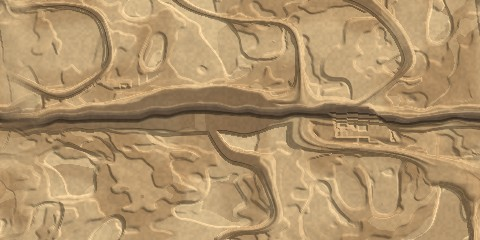
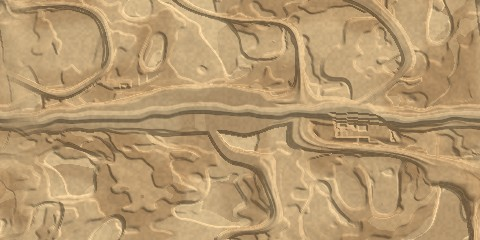
GPU savings (1k shadow map, sand maths only on the sand), Nahara's sand canyon floor, the ship's shots restyled
- Shadow map 1024 (1536): no visible difference on Khepri or Vesper; the phone logs showed the game GPU-bound.
- Sand ripples and sparkle computed only where sand lies: pixel-identical against the previous build.
- Nahara's chasm floor is shaded sand with wind ripples under the haze; its globe re-baked.
- The ship's shots: a thin deep-blue rim on Vesper (no black border), a halo per world's ground, a smoother shape.

diff --git a/src/render/scene.ts b/src/render/scene.ts
@@ -215,7 +215,9 @@ const SUN_ELEVATION = THREE.MathUtils.degToRad(38);
 export const SUN = new THREE.Vector3(SUN_DIRECTION.x, 0, -SUN_DIRECTION.s).normalize().multiplyScalar(Math.cos(SUN_ELEVATION)).setY(Math.sin(SUN_ELEVATION));
 /** Height band that can receive (terrain floor) or cast (scenery, fortress superstructure) shadows. */
 const SHADOW_SLAB = { bottom: TERRAIN_MIN_HEIGHT - .2, top: 3.7 } as const;
-const SHADOW_MAP_SIZE = 1536, SHADOW_LIGHT_DISTANCE = 60;
+// (1024 since 19 November, 1536 before: phone logs showed the game GPU-bound, and the depth fill falls by more than half;
+// user, "lets try the 1k shadow, that would improve the whole game right".)
+const SHADOW_MAP_SIZE = 1024, SHADOW_LIGHT_DISTANCE = 60;
 /**
  * The authored Scrapper is ~1.0 unit wide; the user asked for the hero to fly at the planned top-tier size
  * (1.7 units, docs/04 §9). Render-only: the collision radius is owned by the simulation.
@@ -657,7 +659,7 @@ export function createRenderer(canvas: HTMLCanvasElement): GameRenderer {
    * flash), so the switch happens under the flash and never mid-sector.
    */
   /** Bright ground (Vesper's snow) washes out the pale hero bolts: they gain a dark outline and a deeper cyan there. */
-  let brightGround = false;
+  let brightGround = false, coolGround = false;
   /** Lights, grade and fog of a look: cheap, no material changes (the playground tunes these live). */
   const applyLight = (next: PlanetId, look: PlanetLook) => {
     scene.background = new THREE.Color(look.background);
@@ -686,6 +688,7 @@ export function createRenderer(canvas: HTMLCanvasElement): GameRenderer {
   };
   const applyLook = (next: PlanetId) => {
     brightGround = next === 'vesper';
+    coolGround = next === 'vesper' || next === 'luna' || next === 'nacre' || next === 'umbra';
     planet = next;
     const look = LOOKS[next];
     applyLight(next, look);
@@ -1367,14 +1370,32 @@ export function createRenderer(canvas: HTMLCanvasElement): GameRenderer {
 
   // Shots never hide behind ground: no depth test, and `transparent` puts them in the last (transparent) list so
   // they draw after roads and other blended ground passes, which would otherwise paint over them.
-  const friendlyMaterial = new THREE.MeshBasicMaterial({ color: 0xbcfff8, depthTest: false, depthWrite: false, transparent: true });
+  const friendlyMaterial = new THREE.MeshBasicMaterial({ color: 0xbcfff8, depthTest: false, depthWrite: false, transparent: true, opacity: .88 });
   // Hostile shot colours per world (a core and a pale centre that the bloom carries): shot-colors.ts `hostileHues`.
   const hostileMaterial = new THREE.MeshBasicMaterial({ color: 0xff8869, depthTest: false, depthWrite: false, transparent: true });
   const hostileCoreMaterial = new THREE.MeshBasicMaterial({ color: 0xffe7c4, depthTest: false, depthWrite: false, transparent: true });
   const projectileGeometry = new THREE.SphereGeometry(1, 6, 4);
-  const friendly = new THREE.InstancedMesh(projectileGeometry, friendlyMaterial, 1024);
-  const friendlyOutlineMaterial = new THREE.MeshBasicMaterial({ color: 0x041624, depthTest: false, depthWrite: false, transparent: true, toneMapped: false });
-  const friendlyOutline = new THREE.InstancedMesh(projectileGeometry, friendlyOutlineMaterial, 1024);
+  // (The ship's own shots on a smoother shape, 16 × 8: on the 6-sided one their thin rim showed every facet as a jagged edge,
+  // 19 November, "the borders now look pixelated".)
+  const boltGeometry = new THREE.SphereGeometry(1, 16, 8);
+  const friendly = new THREE.InstancedMesh(boltGeometry, friendlyMaterial, 1024);
+  // A soft halo round each of the ship's own shots (19 November: "it could use some subtle glow (less than interceptor perk)
+  // and some transparency"): the same instances, larger and faint, added over the scene; one more draw, no extra pass.
+  const friendlyGlowMaterial = new THREE.MeshBasicMaterial({ color: 0x1fc8ff, depthTest: false, depthWrite: false, transparent: true, opacity: .32, blending: THREE.AdditiveBlending, toneMapped: false });
+  const friendlyGlow = new THREE.InstancedMesh(boltGeometry, friendlyGlowMaterial, 1024);
+  friendlyGlow.instanceMatrix.setUsage(THREE.DynamicDrawUsage); friendlyGlow.frustumCulled = false; friendlyGlow.renderOrder = 8;
+  friendlyGlow.count = 0; scene.add(friendlyGlow);
+  // (Over warm ground, a halo in the shot's own pale cyan, blended rather than added: added cyan over rust read lilac.)
+  const friendlyWarmGlowMaterial = new THREE.MeshBasicMaterial({ color: 0xbcfff8, depthTest: false, depthWrite: false, transparent: true, opacity: .22, toneMapped: false });
+  const friendlyWarmGlow = new THREE.InstancedMesh(boltGeometry, friendlyWarmGlowMaterial, 1024);
+  friendlyWarmGlow.instanceMatrix = friendlyGlow.instanceMatrix; friendlyWarmGlow.frustumCulled = false; friendlyWarmGlow.renderOrder = 8;
+  friendlyWarmGlow.count = 0; scene.add(friendlyWarmGlow);
+  // (Its border finer and half see-through since 19 November, user: "the projectiles of the hero ship look cheap with the
+  // black border ... make the black border finer"; still there on Vesper's snow, where it keeps them readable.)
+  // (A deep blue rim rather than a black one, 19 November: "over the white snow its not so good visible" without it, but black
+  // read as cheap; saturated blue still stands off the snow and reads as the shot's own energy.)
+  const friendlyOutlineMaterial = new THREE.MeshBasicMaterial({ color: 0x08357a, depthTest: false, depthWrite: false, transparent: true, opacity: 1, toneMapped: false });
+  const friendlyOutline = new THREE.InstancedMesh(boltGeometry, friendlyOutlineMaterial, 1024);
   friendlyOutline.instanceMatrix.setUsage(THREE.DynamicDrawUsage); friendlyOutline.frustumCulled = false; friendlyOutline.renderOrder = 9;
   friendlyOutline.count = 0; scene.add(friendlyOutline);
   /** A Fracture Wave's wall shots in flight this frame (linked by a band, docs/39). */
@@ -2243,8 +2264,11 @@ export function createRenderer(canvas: HTMLCanvasElement): GameRenderer {
           transform.rotation.set(0, Math.atan2(at.vx, -at.vs), 0); transform.scale.setScalar(1.25); transform.updateMatrix();
           if (missileCount < missiles.instanceMatrix.count) missiles.setMatrixAt(missileCount++, transform.matrix);
         } else if (sim.friendly) {
+          if (friendlyCount < friendly.instanceMatrix.count) {
+            transform.scale.set(.1 * heat.grow, .05, .36 * heat.grow); transform.updateMatrix(); friendlyGlow.setMatrixAt(friendlyCount, transform.matrix);
+          }
           if (brightGround && friendlyCount < friendly.instanceMatrix.count) {
-            transform.scale.set(.1 * heat.grow, .05, .36 * heat.grow); transform.updateMatrix(); friendlyOutline.setMatrixAt(friendlyCount, transform.matrix);
+            transform.scale.set(.09 * heat.grow, .05, .345 * heat.grow); transform.updateMatrix(); friendlyOutline.setMatrixAt(friendlyCount, transform.matrix);
           }
           transform.scale.set(.045 * heat.grow, .045, .27 * heat.grow); transform.updateMatrix();
           if (friendlyCount < friendly.instanceMatrix.count) friendly.setMatrixAt(friendlyCount++, transform.matrix);
@@ -2273,9 +2297,16 @@ export function createRenderer(canvas: HTMLCanvasElement): GameRenderer {
       }
       if (missiles) liveInstances(missiles, missileCount);
       liveInstances(friendly, friendlyCount); liveInstances(hostile, hostileCount); liveInstances(hostileCores, hostileCount);
-      liveInstances(friendlyOutline, brightGround ? friendlyCount : 0);
+      liveInstances(friendlyOutline, brightGround ? friendlyCount : 0); liveInstances(friendlyGlow, coolGround ? friendlyCount : 0); liveInstances(friendlyWarmGlow, coolGround ? 0 : friendlyCount);
+      // (The halo dimmer on Vesper's snow, where additive light washes out; brighter with the shots' own heat.)
+      // (Only over the cool worlds' ground: over Khepri's warm rust, Amnion's yolk, Corona's plasma and Nahara's sand, additive
+      // cyan read as a muddy lilac ring, 19 November; there the hotter core's own bloom is its glow.)
+      friendlyGlowMaterial.opacity = (brightGround ? .15 : .22) * Math.min(1.6, heat.energy);
+      // (On the snow a saturated cyan inside its deep blue rim: a pale core vanished into the snow, 19 November.)
       friendlyMaterial.color.setHex(brightGround ? 0x1fd2ff : chain > 0 ? 0xd8fffb : 0xbcfff8);
-      if (!brightGround) friendlyMaterial.color.multiplyScalar(heat.energy);
+      // (Hotter than before, 1.5: past the bloom's threshold its core spreads a faint glow of its own, under the
+      // Interceptor's spun-up 2×; user, 19 November, "some subtle glow (less than interceptor perk)".)
+      if (!brightGround) friendlyMaterial.color.multiplyScalar(heat.energy * 1.5);
 
       pickupBatches.forEach(mesh => { mesh.count = 0; });
       for (const pickup of state.pickups) {

diff --git a/src/render/terrain-kit.ts b/src/render/terrain-kit.ts
@@ -1122,11 +1122,19 @@ float sandOn = 0.0;
 float sandCavity = 0.0;
 if ( sandLook > 0.0 ) {
   vec2 sandP = vLocal.xz;
-  sandOn = smoothstep( 0.05, 0.95, vSandClearance ) * ( 1.0 - smoothstep( 0.0, 0.45, vSurface.z ) ) * ( 1.0 - cliffWall ) * ( 1.0 - smoothstep( 0.05, 0.3, vSurface.y ) );
+  // (On the chasm floor the bed's setback from cliff feet is waived, its own walls are 8 tall and it is narrow: the setback
+  // cleared nearly all of it, 19 November. Its walls themselves stay bare, cliffWall.)
+  float sandFloor = smoothstep( -5.5, -7.5, vLocal.y );
+  sandOn = max( smoothstep( 0.05, 0.95, vSandClearance ), sandFloor ) * ( 1.0 - smoothstep( 0.0, 0.45, vSurface.z ) ) * ( 1.0 - cliffWall ) * ( 1.0 - smoothstep( 0.05, 0.3, vSurface.y ) );
   // Open sand only: the ripples and swells calm round the scenery (the sand itself, its dust and sparkle, stay).
   float sandFree = sandOn * ( 1.0 - smoothstep( 0.05, 0.95, vSandShelter ) );
-  // The phase's world gradient from its screen derivatives: [dx.x dx.z; dy.x dy.z] g = (dFdx u, dFdy u).
+  // (Only where sand lies, 19 November: the noise, phases and their derivatives were evaluated on every ground pixel of
+  // Nahara and thrown away off the sand, on a GPU-bound phone. All of it scales with sandOn, so off the sand nothing changes;
+  // the derivatives are taken from vLocal before the branch.)
+  float sandShade = 0.0, sandDeep = sandFloor;
   vec3 sandDx = dFdx( vLocal ), sandDy = dFdy( vLocal );
+  if ( sandOn > 0.0 ) {
+  // The phase's world gradient from its screen derivatives: [dx.x dx.z; dy.x dy.z] g = (dFdx u, dFdy u).
   float sandDet = sandDx.x * sandDy.z - sandDx.z * sandDy.x, sandInv = abs( sandDet ) > 1e-10 ? 1.0 / sandDet : 0.0;
   // Broad wind bends and smaller erosion patches interrupt and compress the crests in both quality tiers.
   float erosion = khepriNoise( sandP + vec2( 13.1, 0.0 ), 0.5 );
@@ -1136,11 +1144,13 @@ if ( sandLook > 0.0 ) {
   float dune = 6.2831853 * dot( SAND_KD, sandP ) + warp * 0.35;
   vec2 gd = vec2( dFdx( dune ) * sandDy.z - dFdy( dune ) * sandDx.z, dFdy( dune ) * sandDx.x - dFdx( dune ) * sandDy.x ) * sandInv;
   // Broad wind-swept areas blend into smooth sand across several world units.
-  float patchy = smoothstep( 0.3, 0.7, khepriNoise( sandP + vec2( 0.0, 7.7 ), 1.0 / 12.0 ) );
+  // (The chasm floor rippled throughout, its patches never smoothed away: the floor is the sand the wind settles, 19
+  // November.)
+  float patchy = max( smoothstep( 0.3, 0.7, khepriNoise( sandP + vec2( 0.0, 7.7 ), 1.0 / 12.0 ) ), sandDeep * 0.8 );
   // Each octave fades before it aliases: from about seven pixels a ripple to about three and a half.
   float a1 = sandFree * ( 1.0 - smoothstep( 0.9, 1.8, fwidth( u1 ) ) ) * patchy * patchy * mix( 0.8, 1.0, erosion );
   sandSlope = g1 * ( sandSlopeOf( u1 ) * 0.045 * a1 ) + gd * ( cos( dune ) * 0.025 * sandFree );
-  float sandShade = sandProfile( u1 ) * a1;
+  sandShade = sandProfile( u1 ) * a1;
   // Less sky reaches a sheltered trough; the perturbed normal supplies its directional sun shading.
   sandCavity = smoothstep( 0.1, 0.95, -sandProfile( u1 ) ) * a1;
   if ( sandLook > 1.5 ) {
@@ -1150,9 +1160,12 @@ if ( sandLook > 0.0 ) {
     sandSlope += g2 * ( sandSlopeOf( u2 ) * 0.008 * a2 );
     sandShade += sandProfile( u2 ) * a2 * 0.5;
   }
+  }
   // Subtle grain sorting in the troughs complements the sun-lit height field. The ground's pebbly
   // dust grain (the detail map) is mostly lifted off the sand, so the ripples carry its texture.
-  diffuseColor.rgb *= 1.0 + sandShade * 0.10;
+  // (Deeper on the chasm floor, 0.3 from 0.1: it lies in its walls' shadow, where the sun-lit relief that draws the
+  // ripples elsewhere is missing; user, 19 November, "make the canyon floor have sand too".)
+  diffuseColor.rgb *= 1.0 + sandShade * mix( 0.10, 0.3, sandDeep );
 #ifdef USE_MAP
   float sandDust = ( detail - 1.0 ) * detailContrast;
   diffuseColor.rgb *= ( 1.0 + sandDust * ( 1.0 - 0.7 * sandOn ) ) / max( 1.0 + sandDust, 0.2 );
@@ -1164,11 +1177,13 @@ if ( sandLook > 0.0 ) {
  * Each glint is at least about a pixel across (spread by the cell's fwidth, its energy kept), never a single flickering texel.
  */
 const SAND_SPARKLE = `#if NUM_DIR_LIGHTS > 0
-  if ( sandLook > 1.5 ) {
+  // (Its derivative before the branch; the rest only on the sand, which it scales by sandOn: 19 November.)
+  vec2 grainWidth = fwidth( vLocal.xz * 9.0 );
+  if ( sandLook > 1.5 && sandOn > 0.0 ) {
     vec2 grainCell = vLocal.xz * 9.0, grainId = floor( grainCell );
     float r1 = khepriHash( grainId, 324.0 ), r2 = khepriHash( grainId + vec2( 17.0, 0.0 ), 324.0 ), r3 = khepriHash( grainId + vec2( 0.0, 29.0 ), 324.0 );
     vec2 grainSpot = fract( grainCell ) - 0.5 - ( vec2( r2, r3 ) - 0.5 ) * 0.6;
-    float grainSize = 0.16, grainBlur = max( grainSize, length( fwidth( grainCell ) ) * 0.75 );
+    float grainSize = 0.16, grainBlur = max( grainSize, length( grainWidth ) * 0.75 );
     float grain = ( 1.0 - smoothstep( grainBlur * 0.35, grainBlur, length( grainSpot ) ) ) * ( grainSize * grainSize ) / ( grainBlur * grainBlur );
     vec3 grainFacet = normalize( normal + mat3( viewMatrix ) * vec3( r2 - 0.5, 0.0, r3 - 0.5 ) * 0.7 );
     float grainFlash = smoothstep( 0.982, 0.997, dot( grainFacet, normalize( directionalLights[ 0 ].direction + geometryViewDir ) ) ) * step( 0.8, r1 );

diff --git a/src/world/terrain-nahara.ts b/src/world/terrain-nahara.ts
@@ -408,14 +408,16 @@ export const NAHARA_PALETTE = {
 function naharaColor(row: PlanetRow, x: number, point: PlanetPoint & { tone?: number; strata?: number }, _slope: number, _rim: number, out: [number, number, number]) {
   const P = NAHARA_PALETTE, fine = noise(row.seed ^ 0x4a7a, x * 1.3, row.s * 1.3), tone = point.tone ?? 0.5, natural = point.strata ?? 0;
   const high = smoothRange(0.55, 1, point.elevation), deep = 1 - smoothRange(0.05, 0.45, point.elevation);
-  // Drifted sand over the natural ground's flats (large soft patches), never on the built paving.
-  const drift = smoothRange(0.5, 0.75, noise(row.seed ^ 0x4a7b, x * 0.09, row.s * 0.08)) * natural * (1 - deep);
+  // Drifted sand over the natural ground's flats (large soft patches), never on the built paving; on the chasm's floor too.
+  const drift = smoothRange(0.5, 0.75, noise(row.seed ^ 0x4a7b, x * 0.09, row.s * 0.08)) * natural;
   for (let c = 0; c < 3; c++) {
     // The stone's shade (its slab or its stratum); the higher ground lighter and sun-bleached; the chasm floor dark.
     let value = mix(P.sandstone[c], P.sand[c], high * 0.45 + tone * 0.4);
     value = mix(value, P.brown[c], (1 - tone) * 0.35);
     value = mix(value, P.sand[c], drift * 0.5);
-    value = mix(value, P.shadow[c], deep * 0.8);
+    // (The chasm floor is shaded sand under the haze, its ripples reading through it: user, 19 November, "make the canyon
+    // floor have sand too", keeping the haze. It was 0.8 of the near-black canyon shadow before, invisible under the haze.)
+    value = mix(value, mix(P.sand[c], P.shadow[c], 0.42), deep * 0.85);
     out[c] = value * (0.9 + fine * 0.2);
   }
   return out;

diff --git a/docs/build-status.md b/docs/build-status.md
@@ -1,5 +1,29 @@
 # Build status
 
+## GPU savings, Nahara's sand canyon floor, the hero shots' new look (19 November 2026)
+
+The user's iPhone logs (`?perf`, 19 November: Cold Vector, Brood Strike, Silent Empire on High) showed the game GPU-bound,
+not CPU-bound: JS about 3 ms a frame; slow frames 2-6% on Vesper and Amnion, 13-21% on Nahara (its full-screen sand).
+- **Shadow map 1024** (1536): less than half the depth fill every High frame. Side by side on Khepri's hard shadows and on
+  Vesper, no visible difference.
+- **Sand ripples and sparkle only where sand lies** (src/render/terrain-kit.ts): the noise, phases and their derivatives ran
+  on every Nahara ground pixel and were discarded off the sand. Pixel-identical (two Silent Empire frames diffed against two
+  runs of the previous build: the terrain unchanged to the level; only the special button's DOM pulse differs, as between
+  two runs of one build).
+- **Not done:** the canvas without multisampling on High. Low would have to draw through its own multisampled target, which
+  blends before the tone curve, so its transparent effects (the hero's shield shell) turned paler; and iPhones resolve
+  canvas multisampling on chip, so the saving there is small. Bloom stays at full precision (user).
+- **The canyon floor is sand** (user: "make the canyon floor have sand too", the haze kept): shaded sand with drifts instead
+  of 0.8 of the canyon shadow, and the wind ripples on it (the cliff-foot setback waived on the floor; its walls stay bare),
+  stronger there, in its walls' shadow. Nahara's globe re-baked (tools/dev/bake-planet-previews.mjs; its test caught it).
+- **The ship's own shots** (user: "look cheap with the black border ... subtle glow (less than interceptor perk) and some
+  transparency ... Or at least make the black border finer"): all four main weapons share the batch. On Vesper a thin deep
+  blue rim round the saturated cyan (a pale core vanished on the snow); on Luna, Nacre and Umbra an additive cyan halo; on
+  Khepri, Amnion, Corona and Nahara a blended halo in the shot's own pale cyan (added cyan over warm ground read lilac); the
+  core a little translucent and hotter. A 16 × 8 shape for them (the 6-sided one showed every facet on a thin rim).
+- **Checks:** typecheck, unit tests, build, browser suite (see the deploy). The GPU saving is not measured: this machine
+  renders without a GPU; the next phone log shows it. No phone test.
+
 ## The mission selector's globes ship pre-baked (19 November 2026)
 
 The user: "cant we cache the textures so it loads once for all? currently when switching it loads every time for quite a
